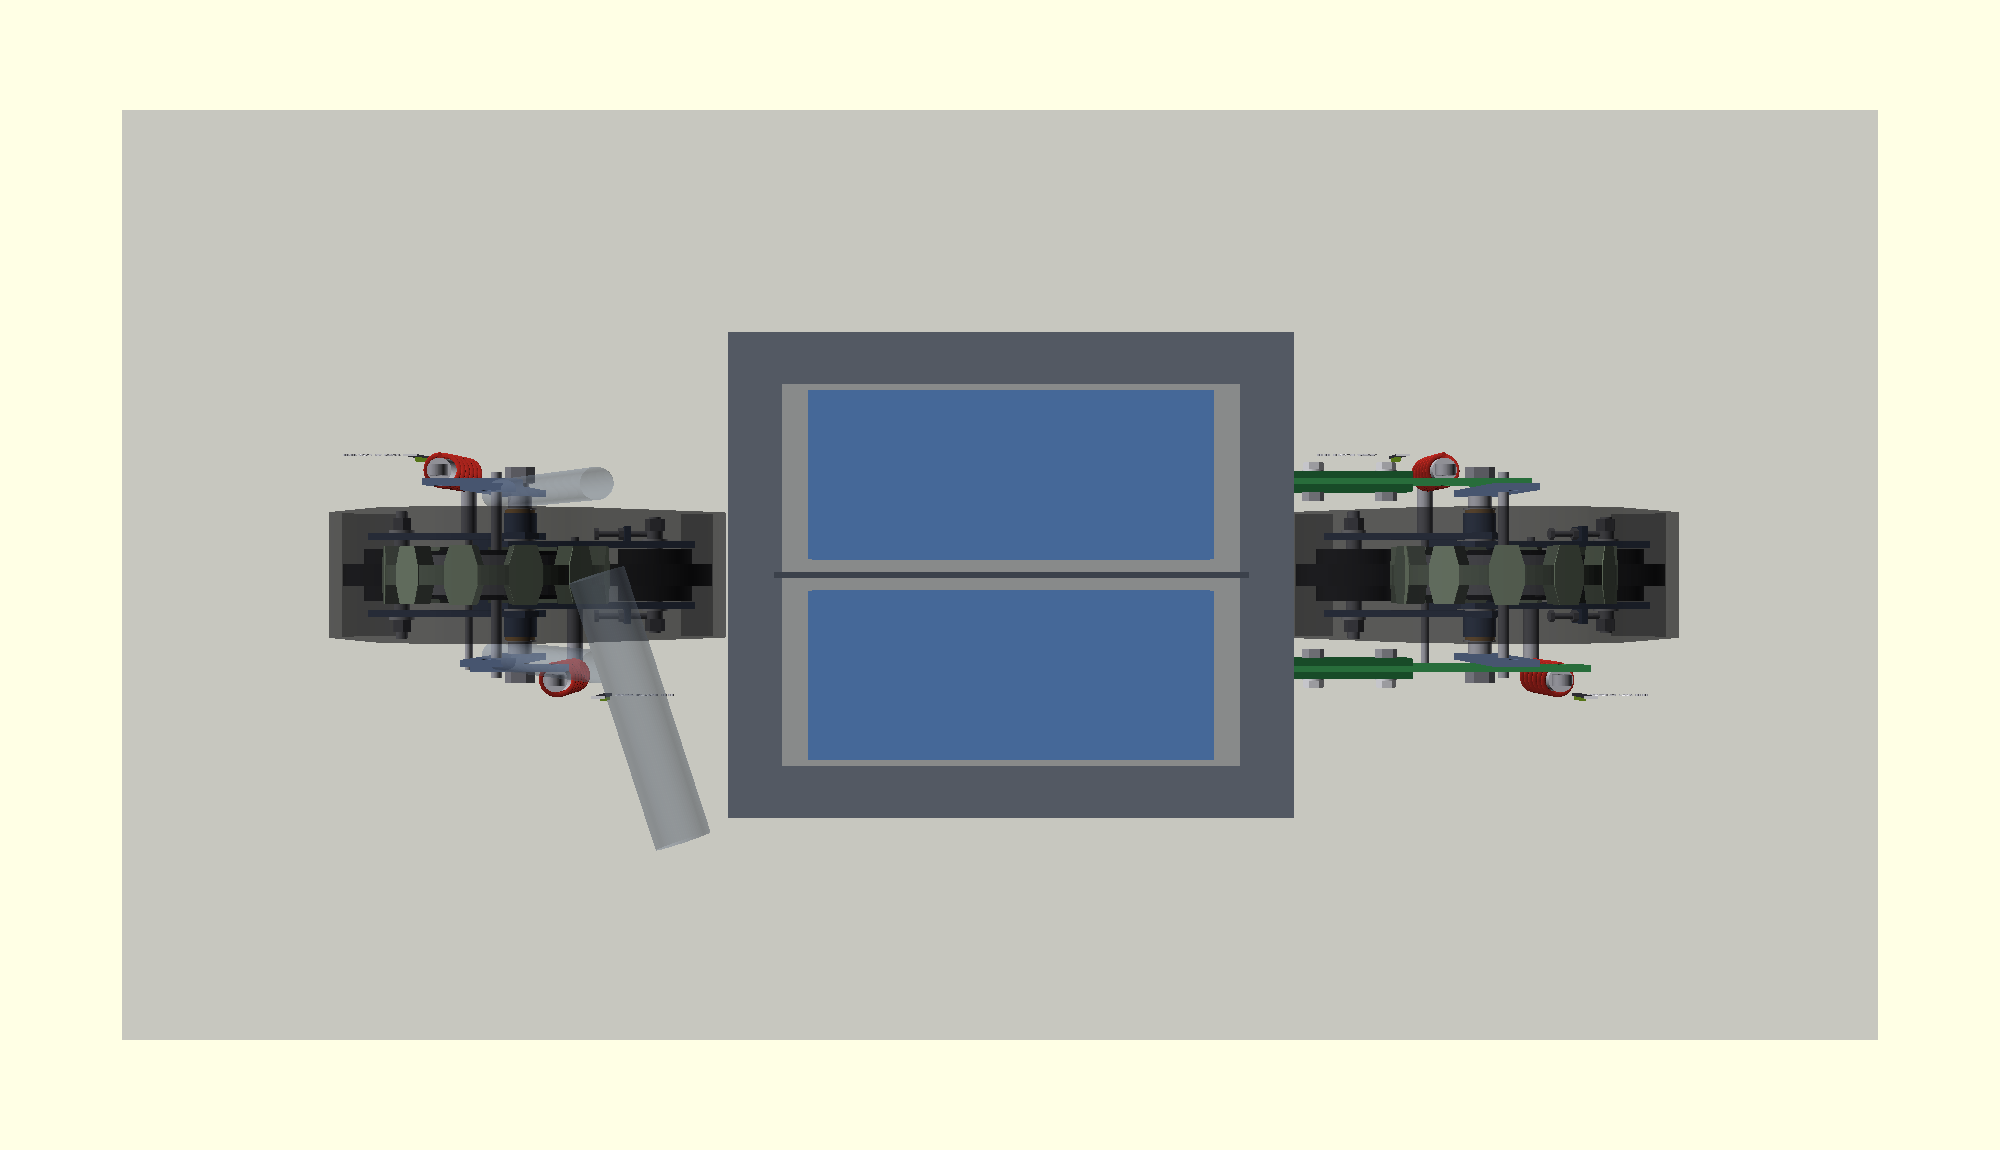
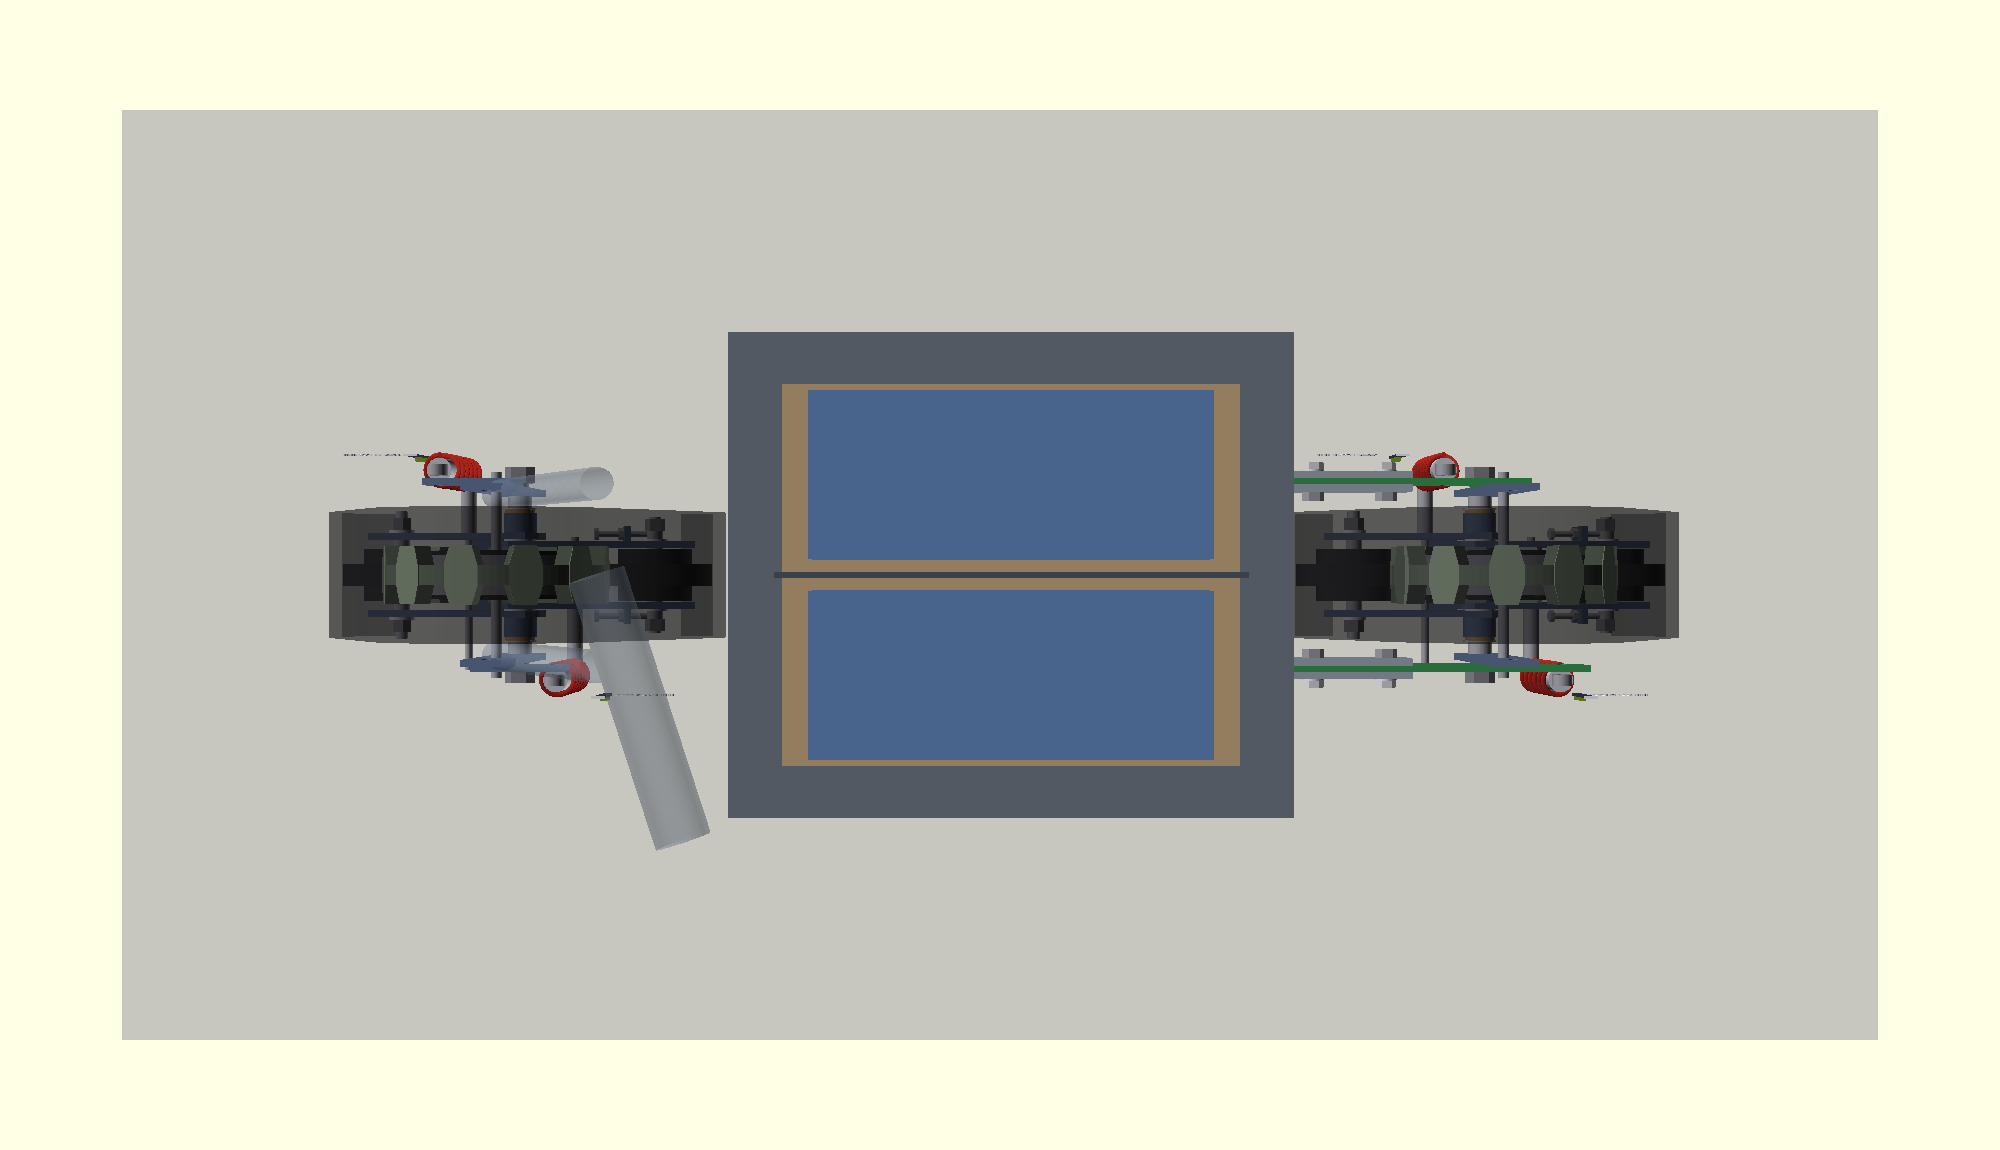
Rev 012: plywood lid + tray; labelled close-up of how the rear pod hangs
Owner: lid and tray will be wood, and "I don't understand how the 60x6 is
connected to the chassis".

Plywood: lid_t / tray_t = 12 (TBD) with wood_rho 600 kg/m³ and a plywood
bending limit of 15 MPa. Lid check moves to its own echo: 6.5 MPa, PASS.
Standing height 249 -> 258, lowest point 143 -> 134. Weight echo now splits
STEEL ~11.5 kg + PLYWOOD ~3.1 kg -> CHASSIS ~14.6 kg, and notes the 2 green
plates (~1.3 kg) leave with the rear pod. Cut list lists plywood.

New render_mode="chassis_link": rear cross tube + rail stubs, tabs, bolts
and the rear pod, with 7 numbered labels (frame -> cross tube -> 2 tabs /
6 mm slot -> M10 from outside -> weld nut -> green plate flat on the hub
plate -> shock eye). link_explode (0-150) slides the pod back out of the
slot and pulls the bolts out. Tabs are now frame grey so frame parts and
pod parts read apart. flag() gains an optional text size; rear_link()
gains bolt_out. README: seven-step explanation + both pictures.

All 8 render modes clean; assembly echo output unchanged.

Claude-Session: https://claude.ai/code/session_01WzBZDBHeomRUG9k12JNsq1

Changed region(s): [[0.372, 0.3348, 0.62, 0.6696], [0.651, 0.5478, 0.713, 0.6087], [0.651, 0.3957, 0.713, 0.4261]]

diff --git a/archive/rev011-uncut-11T-lowB/README.md b/archive/rev011-uncut-11T-lowB/README.md
@@ -83,6 +83,8 @@ open -a OpenSCAD apollo_track_pod.scad     # OpenSCAD is installed via Homebrew
   100×40×2, rear pod on 60×6 green plates (off with 4 bolts), front pod in the
   donor fork (ghost), battery bay. The echoes print every check, the cut list
   and the weight. See "Rev 012 — the floor frame" below.
+- `render_mode = "chassis_link"` — labelled close-up of how the rear pod hangs
+  on the frame; `link_explode` (0–150) pulls the pod back out of the tabs.
 - `render_mode = "chassis_plates"` — the flat 60×6 parts (green plates, tabs,
   middle bar) for DXF / 1:1 print:
   `openscad -o rev012_plates.dxf -D 'render_mode="chassis_plates"' apollo_track_pod_rev011.scad`
@@ -115,8 +117,8 @@ steers). Behind it everything is new:
 |---|---|---|
 | 2 rails + front cross member + rear cross tube | **100×40×2**, 100 side vertical | a box 500 × 430 × 100 |
 | middle bar | **60×6** on edge | under the lid; splits the bay into two 172-wide slots |
-| lid (you stand on it) | 3 mm plate | standing height **249 mm** |
-| tray (packs sit on it) | 3 mm plate | lowest point 143 mm above ground |
+| lid (you stand on it) | **plywood** 12 mm (TBD) | standing height **258 mm** |
+| tray (packs sit on it) | **plywood** 12 mm (TBD) | lowest point 134 mm above ground |
 | 2 green plates | **60×6** | flat on the hub plates, keyed on the axle + 2× M8 |
 | 4 tabs | **60×6** | welded to the rear cross tube, 2 per side |
 | 4 bolts | M10×30 8.8 + weld nuts | **the whole rear pod comes off with these 4** |
@@ -125,11 +127,23 @@ steers). Behind it everything is new:
 
 ### How the rear pod hangs
 
-Each green plate lies flat on its hub plate, reaches forward past the front
-shock, and sits between two tabs on the rear cross tube. 2× M10 per side, put
-in from the outside into nuts welded on the inner tabs.
+Seven steps, from the frame to the pod (`render_mode="chassis_link"`; slide
+`link_explode` to pull the pod back out):
 
-![rear link](rev012_rear_link.png)
+1. The **rear cross tube** (100×40×2) is part of the frame, welded between the rails.
+2. **Two tabs** (60×6 × 105) are welded on its back face, on each side, 6 mm apart — a slot.
+3. The **green plate** (60×6) goes into that slot.
+4. **2× M10** go through tab + green plate + tab, put in from the outside…
+5. …into an **M10 nut welded** on the inner tab.
+6. The other end of the green plate lies **flat on the hub plate**: the motor
+   axle passes through both, plus 2× M8.
+7. The **shock's top eye** bolts to the green plate.
+
+To take the rear pod off: undo the 4 M10 and pull the pod back.
+
+![rear link, assembled](rev012_link.png)
+![rear link, pod pulled back](rev012_link_open.png)
+![rear link, other side](rev012_rear_link.png)
 
 - **Why flat.** The hub plate is a 40×6 strip. Anything that grabs it from the
   side bends it like a page: 1163 N × 95 mm lever = 230–460 MPa on 235 steel.
@@ -157,7 +171,8 @@ in from the outside into nuts welded on the inner tabs.
 | green plate, worst section | 84 MPa |
 | tab welds / rear cross tube twist / M10 in shear | 52 / 34 / 46 MPa |
 | bolt joint | 7150 N per bolt vs 9600 N grip — does not slip |
-| rails / middle bar / lid | 11 / 37 / 104 MPa |
+| rails / middle bar | 11 / 37 MPa |
+| plywood lid 12 mm, one foot (plywood limit 15) | 6.5 MPa |
 
 Static spring forces at the travel limits, no impact factor; limit 141 MPa
 (0.6 × 235 steel).
@@ -172,15 +187,16 @@ Static spring forces at the travel limits, no impact factor; limit 141 MPa
 | 60×6 | green plate LEFT (front shock eye) | 1 × 208 |
 | 60×6 | tabs | 4 × 105 |
 | 60×6 | middle bar | 1 × 420 — **1308 mm total + saw cuts** |
-| 3 mm plate | lid + tray | 2 × 500 × 430 (**to buy**) |
+| plywood 12 mm | lid + tray | 2 × 500 × 430 |
 | hardware | M10×30 8.8 + washers · M10 weld nuts · M8 plate-to-hub-plate | 4 · 4 · 4 |
 
 Flat 60×6 parts with holes and notches: `rev012_plates.dxf`.
 
 ![flat parts](rev012_plates.png)
 
-**Weight:** about **21.6 kg** of steel — tubes 7.3, 60×6 parts 3.7, lid 5.1,
-tray 5.1, bolts + welds ~0.5. Without pods, batteries or front fork.
+**Weight:** about **14.6 kg** — steel 11.5 (tubes 7.3, 60×6 parts 3.7, bolts +
+welds ~0.5) + plywood 3.1 (lid 1.5, tray 1.5). Without pods, batteries or front
+fork. The 2 green plates (~1.3 kg) come off with the rear pod.
 
 ### ⚠ Still open
 

diff --git a/README.md b/README.md
@@ -26,7 +26,7 @@ Folder contents: model (`apollo_track_pod_rev011.scad`), printable sprocket
 blueprint, README, archive note.
 
 **Rev 012 chassis (same folder):** scratch-built floor frame — a 100×40×2 box,
-rear pod on 60×6 green plates (off with 4 bolts), ~21.6 kg of steel.
+rear pod on 60×6 green plates (off with 4 bolts), plywood lid + tray, ~14.6 kg.
 `render_mode="chassis"`; see that folder's README, "Rev 012 — the floor frame".
 
 ## Shared facts
